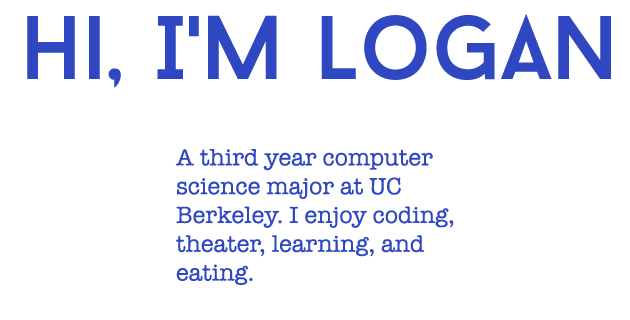
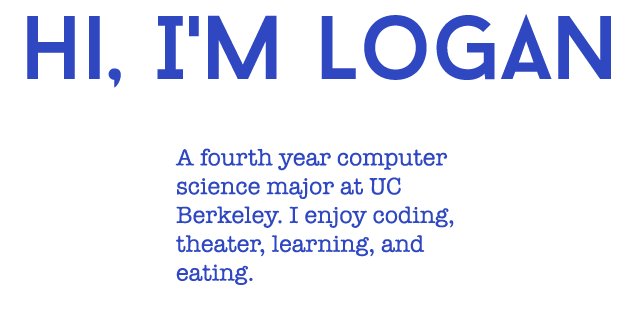
updated grade level, removed blog

Changed region(s): [[0.3016, 0.4688, 0.7238, 0.5312]]

diff --git a/tumblrproj.html b/tumblrproj.html
@@ -1,0 +1,19 @@
+<!DOCTYPE html PUBLIC "-//W3C//DTD XHTML 1.1//EN" "http://www.w3.org/TR/xhtml11/DTD/xhtml11.dtd">
+<head>
+		<link type="text/css" rel="stylesheet" href="stylesheet2.css"></link>
+		<title> My Tumblr App</title>
+		<link rel="icon" type="image/ico" href="http://logancarter.github.io/favicon.ico"/>
+	</head>
+	<body>
+		<script type="text/javascript">
+			var tumblr = require('tumblr.js');
+			var client = tumblr.createClient({
+  			consumer_key: '<consumer key>',
+  			consumer_secret: '<consumer secret>',
+  			token: '<oauth token>',
+  			token_secret: '<oauth token secret>'
+			});
+			var pic = api.tumblr.com/v2/blog/{alienspacedisco}/avatar[/40];
+		</script>
+	</body>
+</html>

diff --git a/aboutme.html b/aboutme.html
@@ -12,7 +12,6 @@
 		<ul id="menulist">
 			<li><a href="index.html"> <img src="home.jpg"/> </a></li>
     		<li><a href="aboutme.html"> <img src="aboutme.jpg"/> </a></li>
-    		<li><a href="blog.html"> <img src="blog.jpg"/></a></li>
     		<li><a href="resume.html"><img src="csresume.jpg"/></a></li>
     		<li><a href="contact.html"><img src="contact.jpg"/></a></li>
 		</ul>

diff --git a/contact.html b/contact.html
@@ -12,7 +12,6 @@
 		<ul id="menulist">
 			<li><a href="index.html"> <img src="home.jpg"/> </a></li>
     		<li><a href="aboutme.html"> <img src="aboutme.jpg"/> </a></li>
-    		<li><a href="blog.html"> <img src="blog.jpg"/></a></li>
     		<li><a href="resume.html"><img src="csresume.jpg"/></a></li>
     		<li><a href="contact.html"><img src="contact.jpg"/></a></li>
 		</ul>

diff --git a/index.html b/index.html
@@ -12,7 +12,6 @@
 		<ul id="menulist">
 			<li><a href="index.html"> <img src="home.jpg"/> </a></li>
     		<li><a href="aboutme.html"> <img src="aboutme.jpg"/> </a></li>
-    		<li><a href="blog.html"> <img src="blog.jpg"/></a></li>
     		<li><a href="resume.html"><img src="csresume.jpg"/></a></li>
     		<li><a href="contact.html"><img src="contact.jpg"/></a></li>
 		</ul>

diff --git a/resume.html b/resume.html
@@ -12,7 +12,6 @@
 		<ul id="menulist">
 			<li><a href="index.html"> <img src="home.jpg"/> </a></li>
     		<li><a href="aboutme.html"> <img src="aboutme.jpg"/> </a></li>
-    		<li><a href="blog.html"> <img src="blog.jpg"/></a></li>
     		<li><a href="resume.html"><img src="csresume.jpg"/></a></li>
     		<li><a href="contact.html"><img src="contact.jpg"/></a></li>
 		</ul>

diff --git a/stylesheet2.css b/stylesheet2.css
@@ -20,7 +20,7 @@ ul li a {
     margin-right:auto;
 }
 #menulist {
-    padding:.8% 0px 0px calc(50% - 270px);
+    padding:.8% 0px 0px calc(50% - 216px);
     position:fixed;
 }
 
